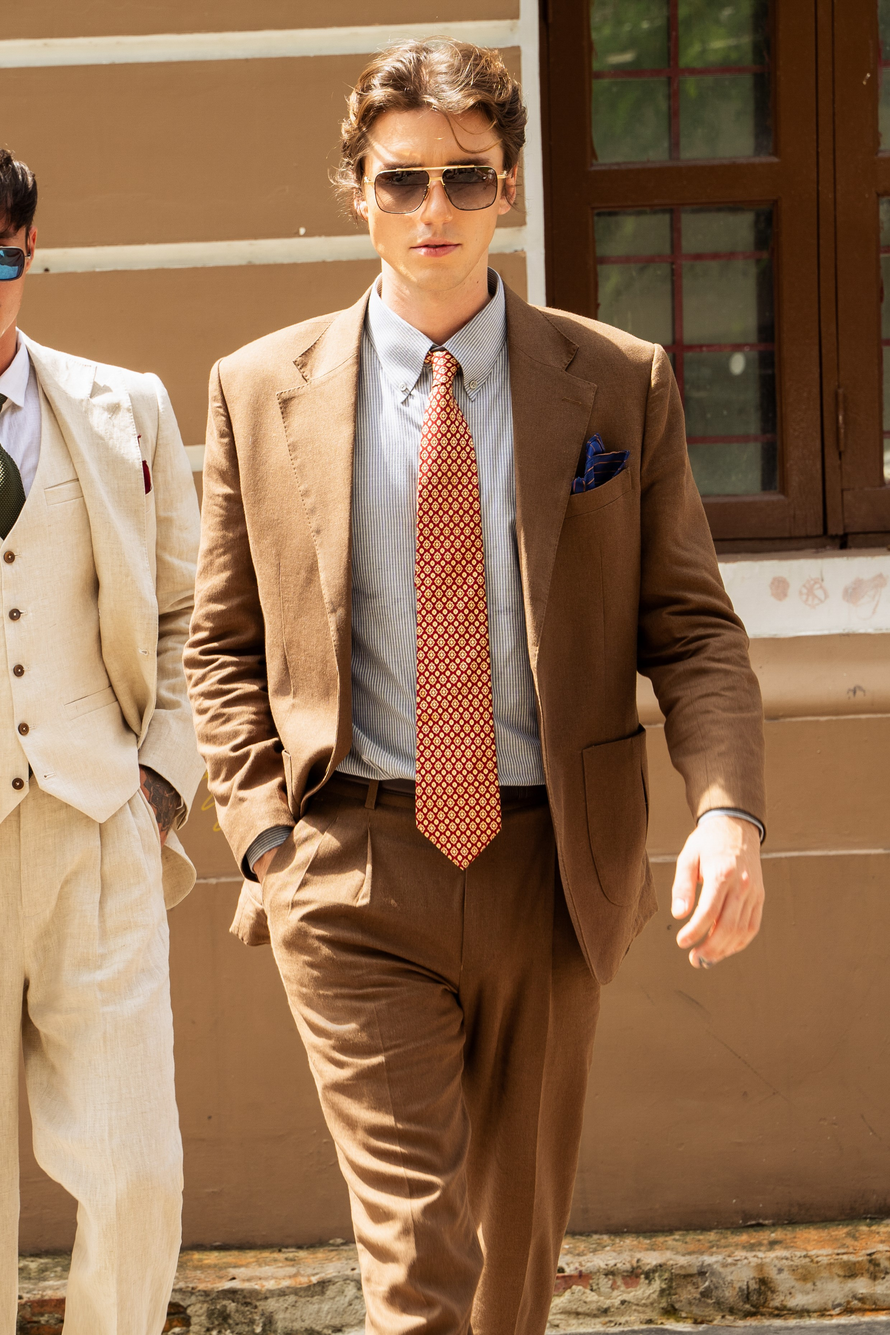
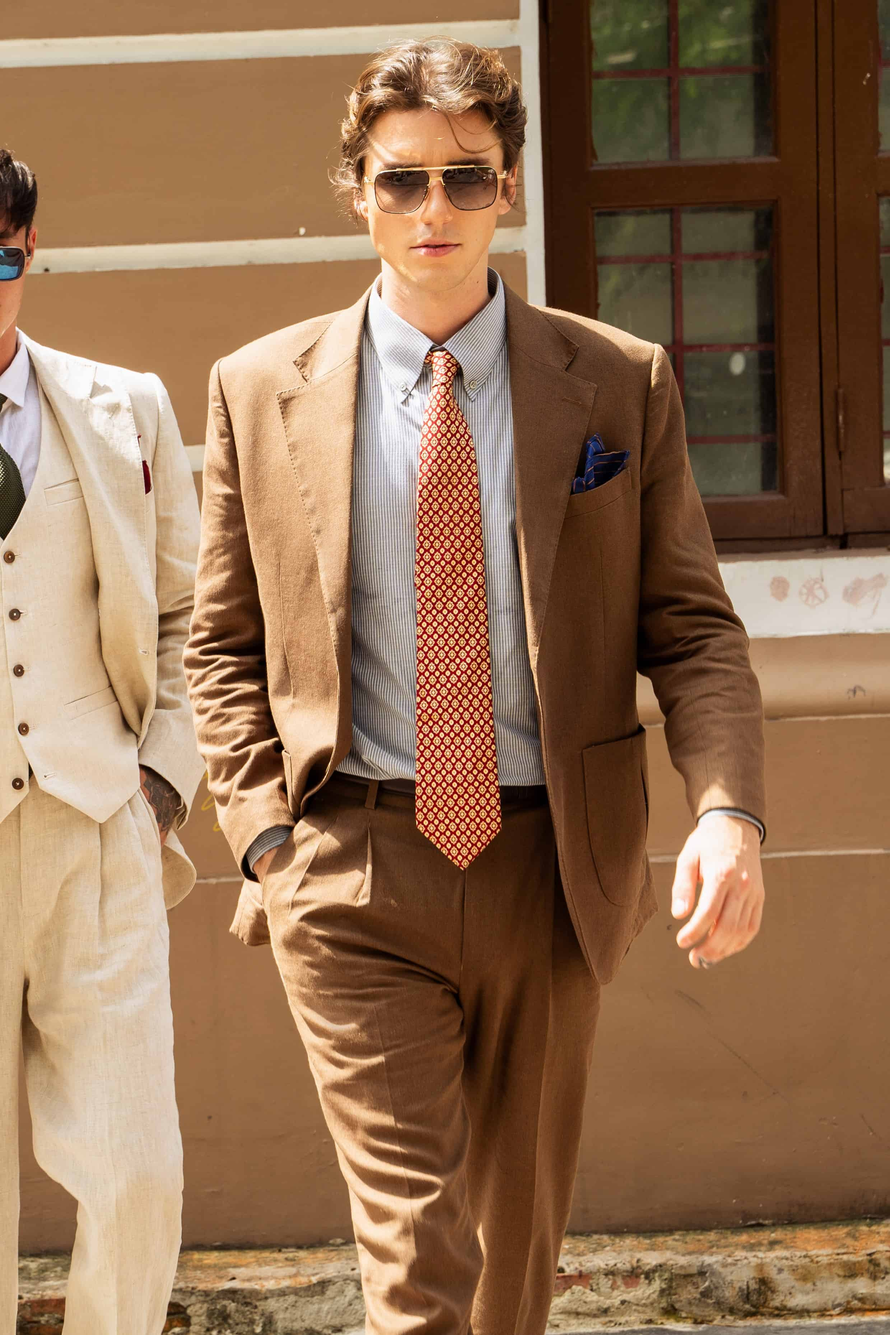
Redesigned page 2 (not a fan of design). Compressed all images on ste to under 500kb. New page 2 built but still have better ideas - NEXT: rebuild page 2 again.

Changed region(s): [[0.4659, 0.2808, 0.528, 0.5928]]

diff --git a/src/Pages/Page4.js b/src/Pages/Page4.js
@@ -1,23 +1,83 @@
 // import styles
 import './Page4.css' 
 
+// import hooks
+import { useState } from 'react'
 
 
-export const Page4 = () => { 
+
+export const Page4 = () => {
+
+
+const [FaceBook, setFaceBook] = useState('./Icons/Facebook.png')
+const [Instagram, setInstagram] = useState('./Icons/Instagram.png')
+const [Zalo, setZalo] = useState('./Icons/Phone.png')
+const [Email, setEmail] = useState('./Icons/Envelope.png')
+
+function hoverFacebook() { 
+    setFaceBook('./Icons/Facebook(2).png')
+}
+function dehoverFacebook() { 
+    setFaceBook('./Icons/Facebook.png')
+}
+
+function hoverInstagram() { 
+    setInstagram('./Icons/Instagram(2).png')
+}
+function dehoverInstagram() { 
+    setInstagram('./Icons/Instagram.png')
+}
+
+function hoverZalo() { 
+    setZalo('./Icons/Phone(2).png')
+}
+function dehoverZalo() { 
+    setZalo('./Icons/Phone.png') 
+}
+
+function hoverEmail() { 
+    setEmail('./Icons/Envelope(2).png')
+}
+function dehoverEmail() { 
+    setEmail('./Icons/Envelope.png')
+}
+
+
+
     return ( 
         <div className='Page4'> 
-            <button className='ContactButton'>
-                <img src='./Icons/Facebook.png' alt='Facebook Link'/>
-            </button>
-            <button className='ContactButton'>
-            <img src='./Icons/Instagram.png' alt='Instagram Link'/>
-            </button>
-            <button className='ContactButton'>
-            <img src='./Icons/Phone.png' alt='Zalo Link'/>
-            </button>
-            <button className='ContactButton'>
-            <img src='./Icons/Envelope.png' alt='Email Link'/>
-            </button>
+                <button className='ContactButton'>
+                    <a href='https://www.facebook.com' target='_blank' rel='noopener noreferrer'>
+                        <img src={FaceBook} 
+                        onMouseEnter={hoverFacebook}
+                        onMouseLeave={dehoverFacebook}
+                        alt='Facebook Link'/>
+                    </a>
+                </button>
+                <button className='ContactButton'>
+                    <a href='https://www.instagram.com' target='_blank' rel='noopener noreferrer'>
+                        <img src={Instagram}
+                        onMouseEnter={hoverInstagram}
+                        onMouseLeave={dehoverInstagram}
+                        alt='Instagram Link'/>
+                    </a>
+                </button>
+                <button className='ContactButton'>
+                    <a href='https://www.zalo.com' target='_blank' rel='noopener noreferrer'>
+                        <img src={Zalo} 
+                        onMouseEnter={hoverZalo}
+                        onMouseLeave={dehoverZalo}
+                        alt='Zalo Link'/>
+                    </a>
+                </button>
+                <button className='ContactButton'>
+                    <a href='https://www.google.com' target='_blank' rel='noopener noreferrer'>
+                        <img src={Email} 
+                        onMouseEnter={hoverEmail}
+                        onMouseLeave={dehoverEmail}
+                        alt='Email Link'/>
+                    </a>
+                </button>
         </div>
     )
 }

diff --git a/src/Pages/Page22.js b/src/Pages/Page22.js
@@ -1,0 +1,52 @@
+//import styles 
+
+import './Page22.css'
+
+export const Page22 = () => {
+    return ( 
+        <div className='Page22'>
+
+
+        <div className='Brand1Container'>
+            <div className='Brand1Images'>
+            <img className='BrandImage' src='./Images/BrandA2.jpg' alt='Brand Image'/>
+            <img className='BrandImage' src='./Images/BrandA3.jpg' alt='Brand Image'/>
+            <img className='BrandImage' src='./Images/BrandA3.jpg' alt='Brand Image'/>
+            </div>
+            <div className='BrandName'>
+                Brand Name
+            </div>
+        </div>
+
+        <div className='Brand1Container'>
+            <div className='Brand1Images'>
+            <img className='BrandImage' src='./Images/BrandB3.jpg' alt='Brand Image'/>
+            <img className='BrandImage' src='./Images/BrandB5.jpg' alt='Brand Image'/>
+            <img className='BrandImage' src='./Images/BrandB8.jpeg' alt='Brand Image'/>
+            </div>
+            <div className='BrandName'>
+                Brand Name
+            </div>
+        </div>
+
+        <div className='Brand1Container'>
+            <div className='Brand1Images'>
+            <img className='BrandImage' src='./Images/BrandC1.jpg' alt='Brand Image'/>
+            <img className='BrandImage' src='./Images/BrandC2.jpg' alt='Brand Image'/>
+            <img className='BrandImage' src='./Images/BrandC3.jpg' alt='Brand Image'/>
+            </div>
+            <div className='BrandName'>
+                Brand Name
+            </div>
+        </div>
+
+        <div className='PageDots'>
+            0 0 0 0 
+        </div>
+
+        
+
+        </div>
+
+    )
+}

diff --git a/src/Pages/Page22.css b/src/Pages/Page22.css
@@ -1,0 +1,55 @@
+.Page22{ 
+
+    min-height: 100vh;
+    width: 100vw;
+    max-width: 2000px;
+
+    display: flex;
+    flex-direction: column;
+    align-items: center;
+    justify-content: space-evenly;
+
+    scroll-snap-align: start;
+    scroll-snap-stop: always;
+
+    color: rgb(253, 250, 227);
+    background-color: rgb(72, 80, 59);
+}
+
+    .Brand1Container{ 
+        /* outline: 1px solid pink; */
+        width: 100vw;
+        height: 30%;
+
+        display: flex;
+        flex-direction: column;
+        align-items: center;
+        
+    }
+        .Brand1Images{ 
+            /* outline: 1px solid green; */
+            width: 100%;
+            height: 80%;
+            display: flex;
+            justify-content: space-evenly;
+        }
+    .BrandImage {  
+        
+        
+    }
+    .BrandName{ 
+        /* outline: 1px solid orange; */
+        height: 20%;
+        display: flex;
+        align-items: center;
+        justify-content: center;
+        padding-bottom: 2%;
+        font-weight: bolder;
+    }
+    
+.PageDots{ 
+    height: 10%;
+    display: flex;
+    justify-content: center;
+    align-items: center;
+}

diff --git a/src/Pages/Page3.css b/src/Pages/Page3.css
@@ -1,18 +1,21 @@
 .Page3{
     background-color: rgb(72, 80, 59);
     min-height: 100vh;
+    width: 100%;
     display: flex;
     flex-direction: column;
-    gap: 50px;
     align-items: center;
     justify-content: center;
     max-width: 2000px;
 
     color: rgb(253, 250, 227);
-    font-size: 1rem;
+    font-size: 1.4rem;
 
     scroll-snap-align: start;
     scroll-snap-stop: always;
+
+    flex-wrap: wrap;
+
 }
 
     .Page3Table{ 
@@ -20,15 +23,21 @@
         grid-template-columns: 1fr 1fr;
         height: 80%;
         gap: 20px;
-        
+        overflow-y: visible;
     }
         .leftCol{
             text-align: center;
-            
-
         }
         .rightCol{
             text-align: center;
-            
-
         }
+
+/* Media query for landscape mode */
+@media screen and (orientation: landscape) {
+    .Page3Table {
+        grid-template-columns: 1fr 1fr 1fr 1fr;
+    }
+    .leftCol{
+        color: rgb(187, 138, 78)
+    }
+}

diff --git a/src/Pages/Page2.css b/src/Pages/Page2.css
@@ -1,5 +1,5 @@
 .Page2{ 
-    background-color: rgb(72, 80, 59);
+    /* background-color: rgb(72, 80, 59); */
     height: 100vh;
     width: 100vw;
     max-width: 2000px;
@@ -25,7 +25,7 @@
         position: absolute; 
         top: 0;
         left: 0; 
-        background-color: rgba(153, 106, 77, 0.75); 
+        /* background-color: rgba(153, 106, 77, 0.75);  */
         padding: 10px; 
         backdrop-filter: blur(10px);
         z-index: 1; 

diff --git a/src/App.js b/src/App.js
@@ -1,6 +1,7 @@
 //Import Pages
 import { Page1 } from './Pages/Page1'
 import { Page2 } from './Pages/Page2'
+import { Page22 } from './Pages/Page22'
 import { Page3 } from './Pages/Page3'
 import { Page4 } from './Pages/Page4'
 
@@ -13,7 +14,8 @@ function App() {
   return (
     <div className="App">
       <Page1/>
-      <Page2/>
+      {/* <Page2/> */}
+      <Page22/>
       <Page3/>
       <Page4/>
     </div>

diff --git a/src/Pages/Page4.css b/src/Pages/Page4.css
@@ -12,15 +12,13 @@
     scroll-snap-stop: always;
 }
 
+
     .ContactButton{ 
         background-color: inherit;
         border: none;
         padding: 0px;
     }
-        .ContactButton:hover{ 
-            box-shadow: 5px 5px 5px 5px black;
 
-        }
 
 
 /* MEDIA QUERIES */

diff --git a/src/Pages/Page3.js b/src/Pages/Page3.js
@@ -13,9 +13,6 @@ export const Page3 = () => {
     return (
         <div className="Page3">
 
-            <div> 
-                Bio
-            </div>
 
             <div className='Page3Table'>
 

diff --git a/src/Pages/Page1.css b/src/Pages/Page1.css
@@ -9,10 +9,12 @@
     scroll-snap-align: start;
     scroll-snap-stop: always;
 
+
 }
 
     .CoverPhoto{ 
         max-height: 65vh;
+
 
         /* max-height: 60vh; */
     }
